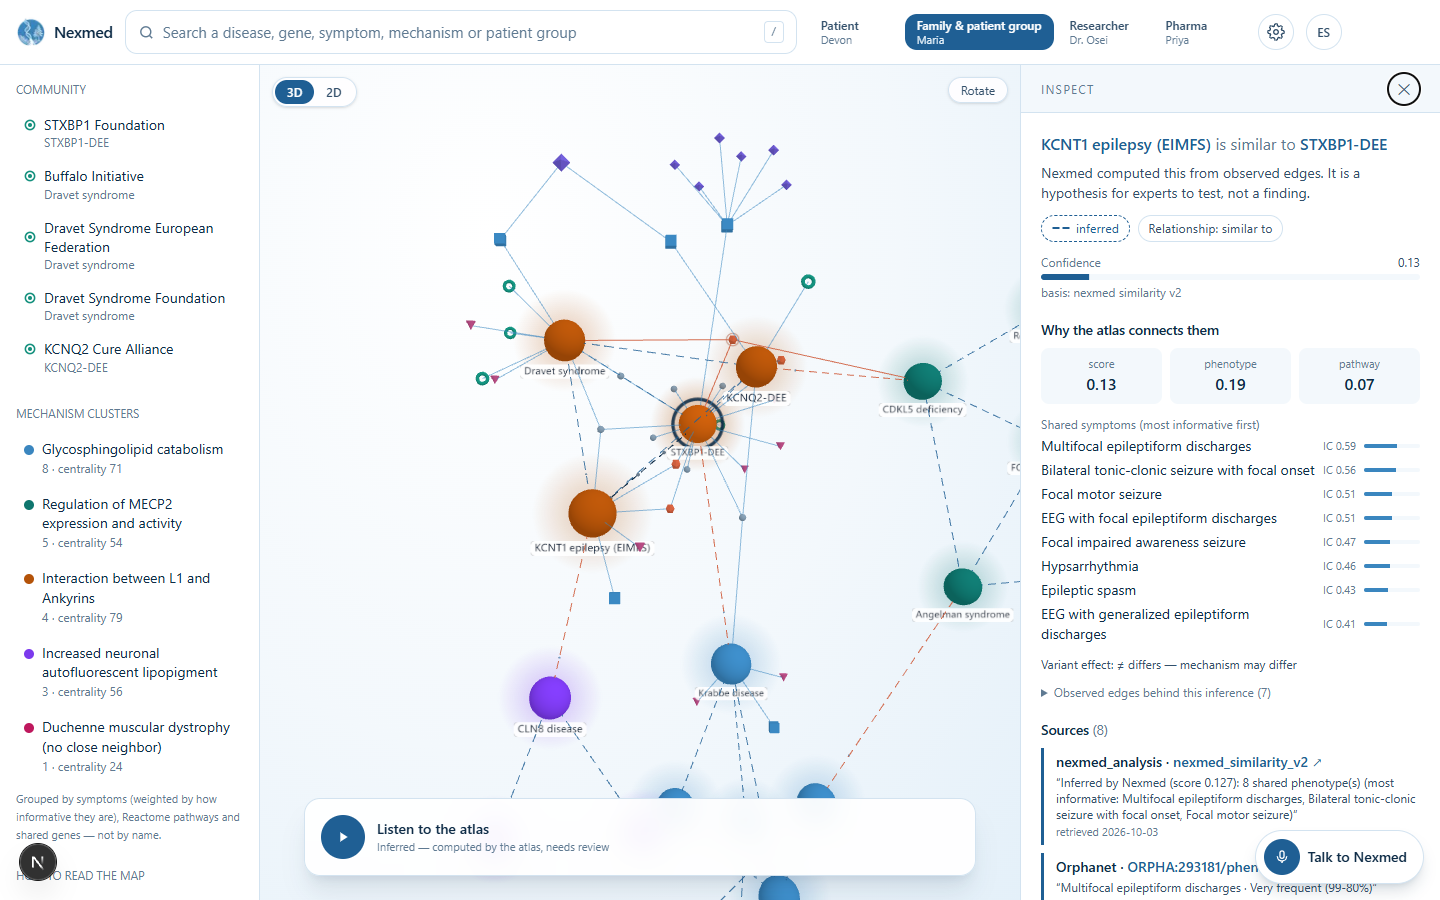
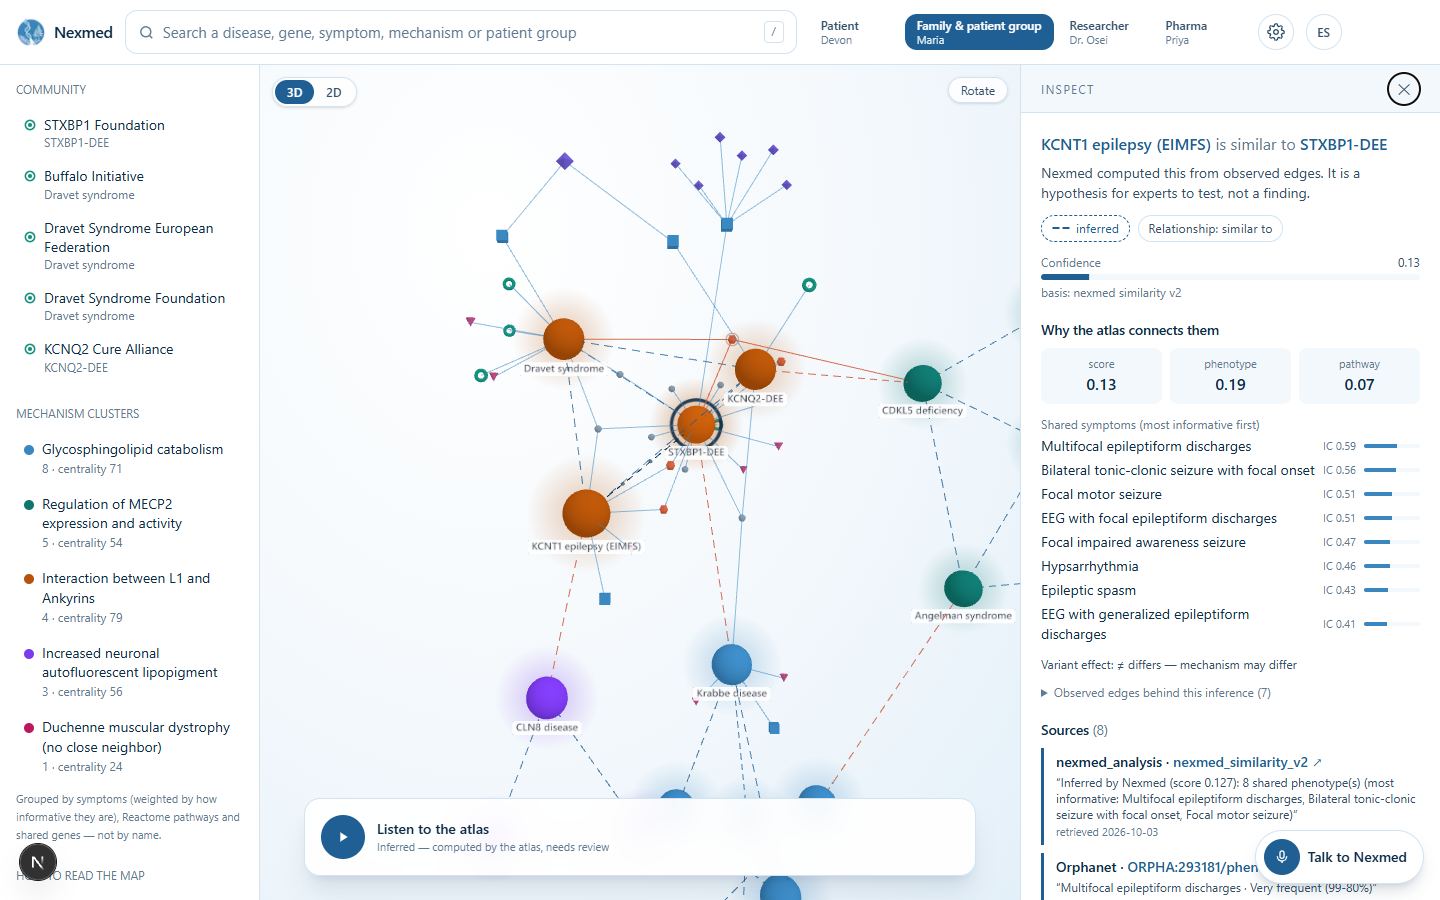
fix(explorer): cache the atlas source decision for the TTL (QA-18), restore saved prefs (no overwrite before hydrate), constant-size 3D labels drawn on top (QA-19)

diff --git a/src/components/atlas/GraphCanvas3D.tsx b/src/components/atlas/GraphCanvas3D.tsx
@@ -99,15 +99,20 @@ export default function GraphCanvas3D({ view, highlightNodes, highlightEdges, se
     haloSprite.scale.setScalar(r * 5);
     const ringSprite = new THREE.Sprite(new THREE.SpriteMaterial({ map: ring, color: new THREE.Color(n.bridge ? CANVAS.bridge : CANVAS.ink), transparent: true, opacity: 0, depthWrite: false }));
     ringSprite.scale.setScalar(r * 3.1);
-    const label = new SpriteText(trim(n.name, isDisease ? 28 : 34), isDisease ? 6.5 : 4.6, CANVAS.ink);
+    // Constant on-screen size (sizeAttenuation off): readable whatever the camera distance, never giant up close.
+    const label = new SpriteText(trim(n.name, isDisease ? 24 : 30), isDisease ? 0.013 : 0.0105, CANVAS.ink);
     label.fontWeight = isDisease ? "600" : "500";
     label.fontFace = "ui-sans-serif, system-ui, sans-serif";
     label.backgroundColor = CANVAS.labelBg;
-    label.padding = [2.4, 1.2];
-    label.borderRadius = 3;
-    label.position.y = -(r + (isDisease ? 6.5 : 5));
+    // padding/borderRadius are in the same units as textHeight (large values blow up the label canvas).
+    label.padding = [0.004, 0.002];
+    label.borderRadius = 0.0025;
+    label.position.y = -(r + 1.5);
+    label.center.set(0.5, 1);
     label.visible = isDisease;
-    (label.material as THREE.SpriteMaterial).depthWrite = false;
+    // Labels always draw on top of spheres (never hidden behind their own or a neighbor's node).
+    const lm = label.material as THREE.SpriteMaterial; lm.depthWrite = false; lm.depthTest = false; lm.sizeAttenuation = false;
+    label.renderOrder = 10;
     group.add(haloSprite, mesh, ringSprite, label);
     nodeParts.current.get(String(n.id))?.mat.dispose();
     nodeParts.current.set(String(n.id), { group, mesh, mat, halo: haloSprite, ring: ringSprite, label, base: r });

diff --git a/src/lib/prefs/index.tsx b/src/lib/prefs/index.tsx
@@ -4,7 +4,7 @@
  * Voice lane reads voiceRate/autoRead/voiceStyle; AI lane receives `simpleLanguage` from the client.
  * Persisted per viewer in localStorage (wrapped in try/catch).
  */
-import { createContext, useContext, useEffect, useMemo, useState, type ReactNode } from "react";
+import { createContext, useContext, useEffect, useMemo, useRef, useState, type ReactNode } from "react";
 
 export interface Prefs {
   textScale: 1 | 1.15 | 1.3;      // root font scaling
@@ -22,15 +22,18 @@ const KEY = "nexmed.prefs.v1";
 
 export function PrefsProvider({ children }: { children: ReactNode }) {
   const [prefs, set] = useState<Prefs>(DEFAULT_PREFS);
+  const hydrated = useRef(false);
   useEffect(() => {
     // Hydrate after mount (server renders defaults); deferred so it is not a synchronous setState in the effect.
     const id = requestAnimationFrame(() => {
       try { const raw = localStorage.getItem(KEY); if (raw) set({ ...DEFAULT_PREFS, ...JSON.parse(raw) }); } catch { /* storage unavailable */ }
+      hydrated.current = true;
     });
     return () => cancelAnimationFrame(id);
   }, []);
   useEffect(() => {
-    try { localStorage.setItem(KEY, JSON.stringify(prefs)); } catch { /* storage unavailable */ }
+    // Never persist the server defaults over the viewer's saved prefs before they were read back.
+    if (hydrated.current) { try { localStorage.setItem(KEY, JSON.stringify(prefs)); } catch { /* storage unavailable */ } }
     const root = document.documentElement;
     root.style.fontSize = `${prefs.textScale * 100}%`;
     root.dataset.contrast = prefs.highContrast ? "high" : "normal";

diff --git a/src/lib/atlas/store.ts b/src/lib/atlas/store.ts
@@ -52,11 +52,18 @@ export function atlas(): Index {
  * Loads the live graph from Supabase (see ./source.ts) with a 5-minute cache; falls back to the file.
  */
 export async function loadAtlas(): Promise<Index> {
-  if (cache?.source === "supabase" && Date.now() - loadedAt < TTL_MS) return cache;
-  const live = await loadFromSupabase().catch((e) => { console.error("[atlas] supabase load failed:", (e as Error).message); return null; });
-  if (live && live.entities.length) { cache = buildIndex(live, "supabase"); loadedAt = Date.now(); return cache; }
-  return atlas();
+  // The decision (live or file fallback) is cached for the TTL either way, and concurrent requests share one load:
+  // a failed / incomplete live read must not be retried on every request (QA-18).
+  if (Date.now() - loadedAt < TTL_MS && cache) return cache;
+  inflight ??= (async () => {
+    const live = await loadFromSupabase().catch((e) => { console.error("[atlas] supabase load failed:", (e as Error).message); return null; });
+    loadedAt = Date.now();
+    if (live && live.entities.length) cache = buildIndex(live, "supabase");
+    return live && live.entities.length ? cache! : atlas();
+  })().finally(() => { inflight = null; });
+  return inflight;
 }
+let inflight: Promise<Index> | null = null;
 
 export const atlasSource = () => (cache ? cache.source : "file");
 
